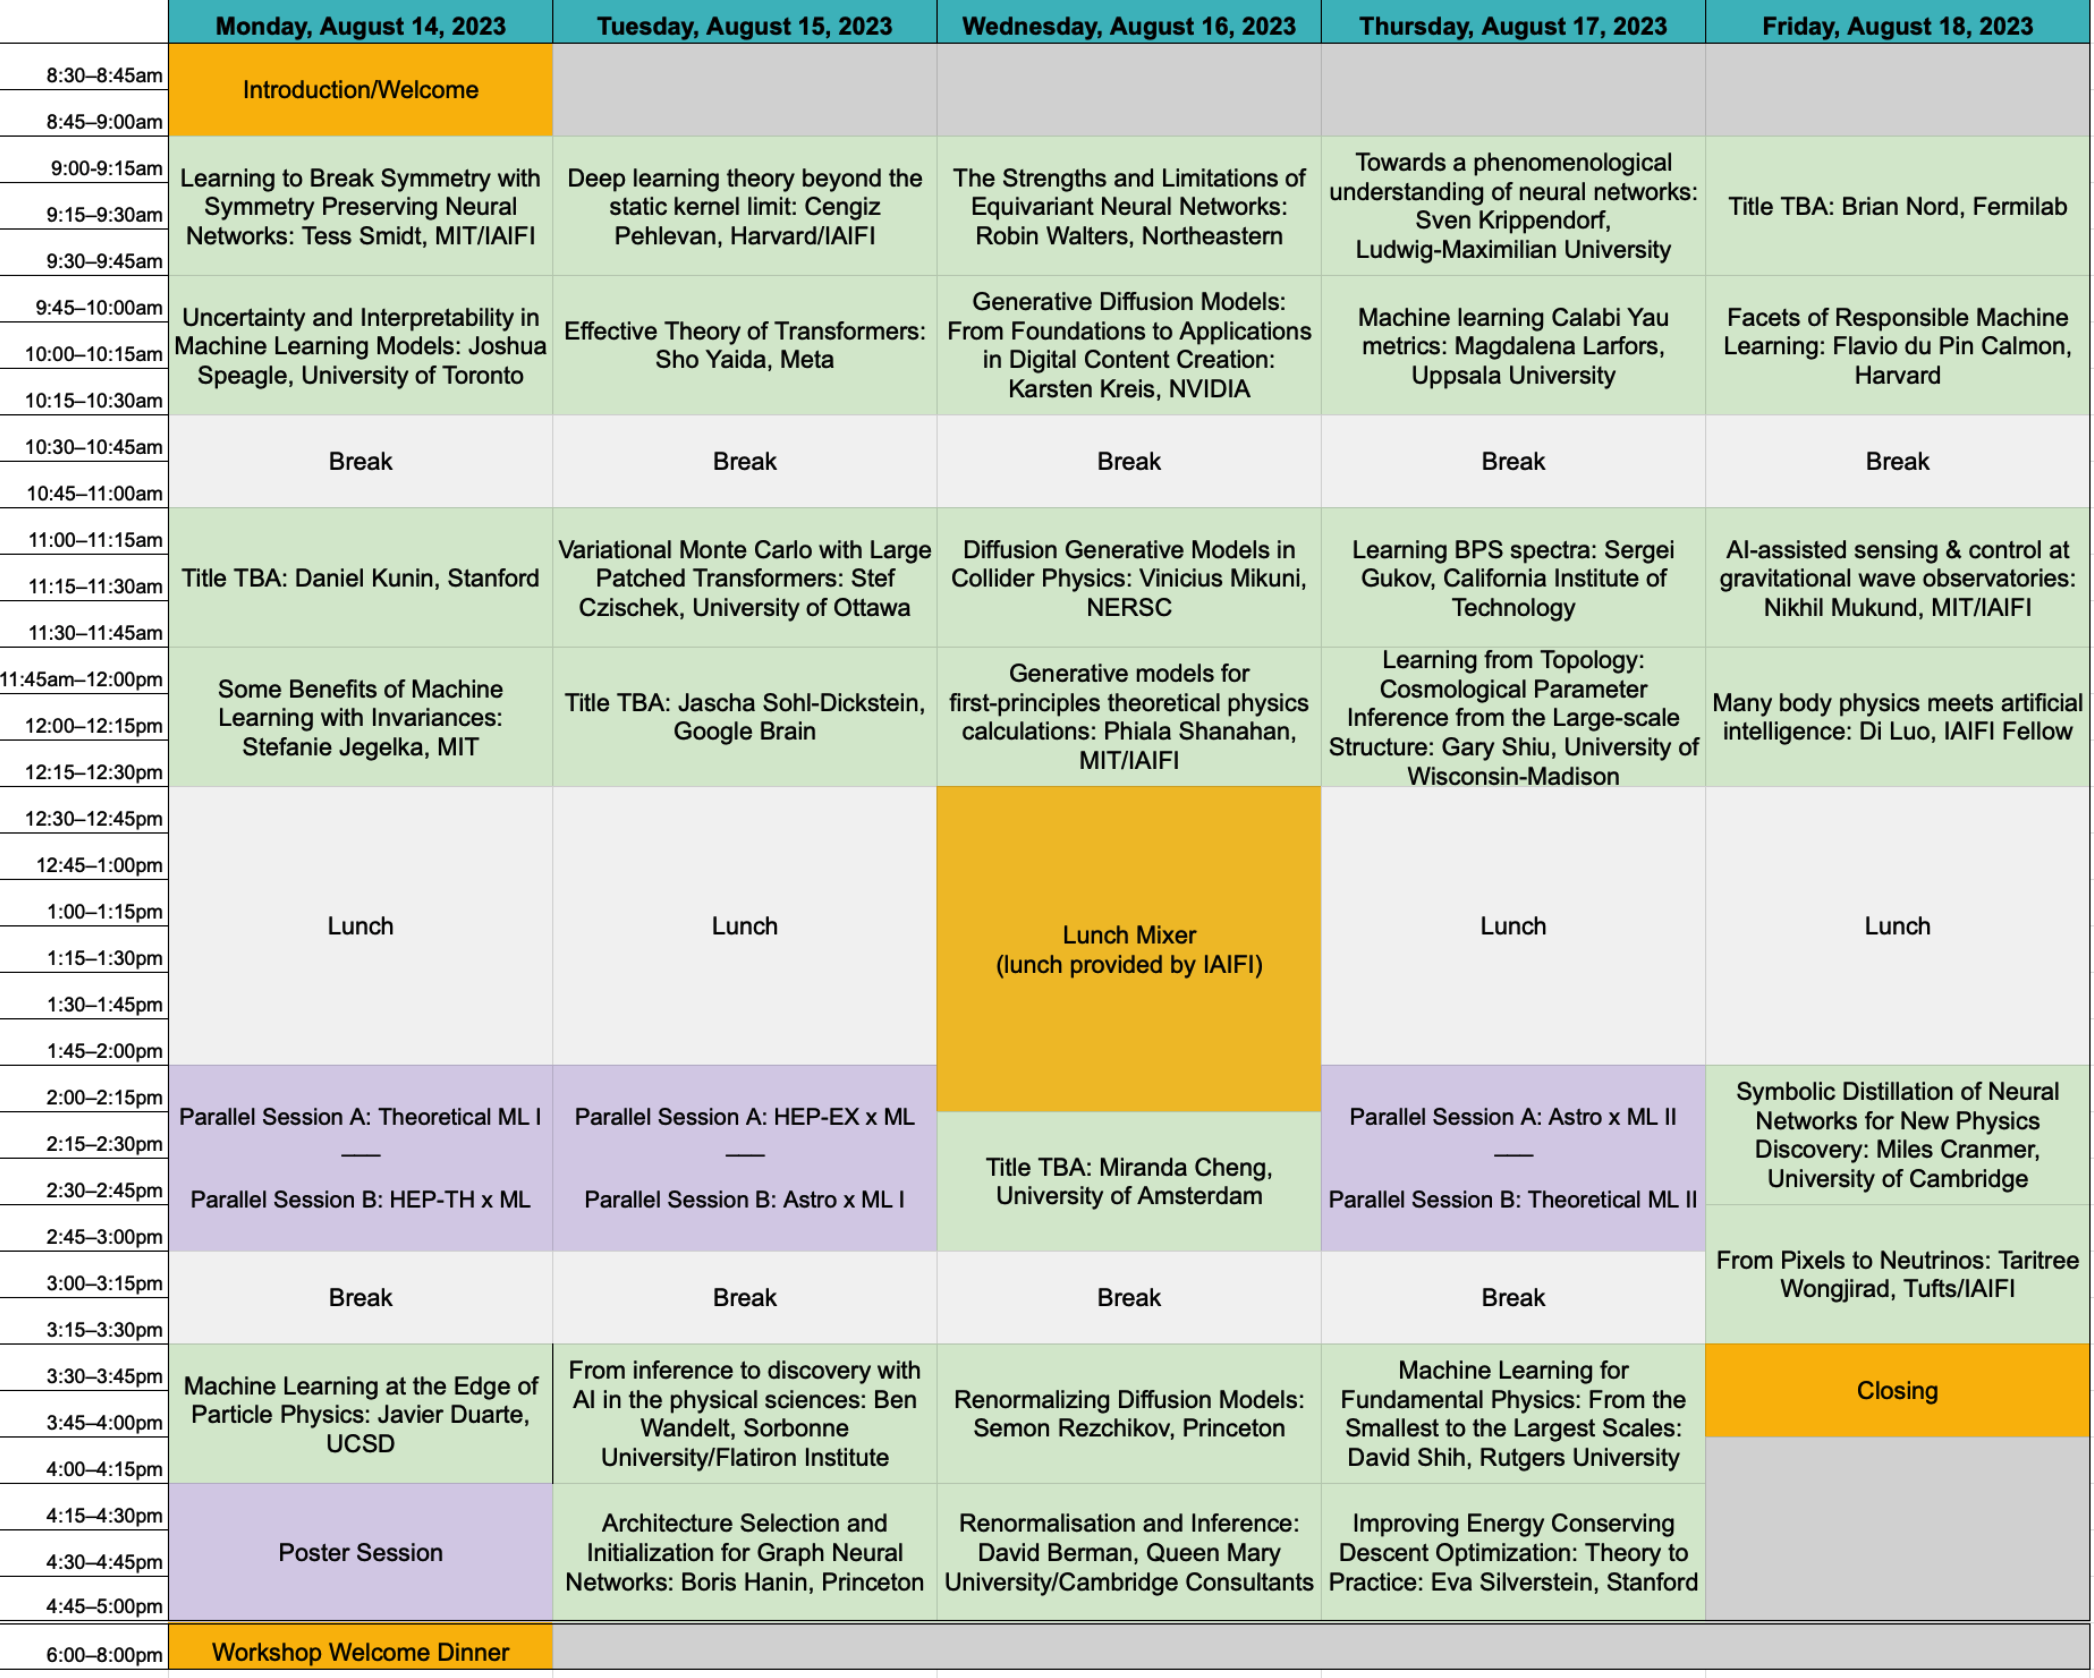
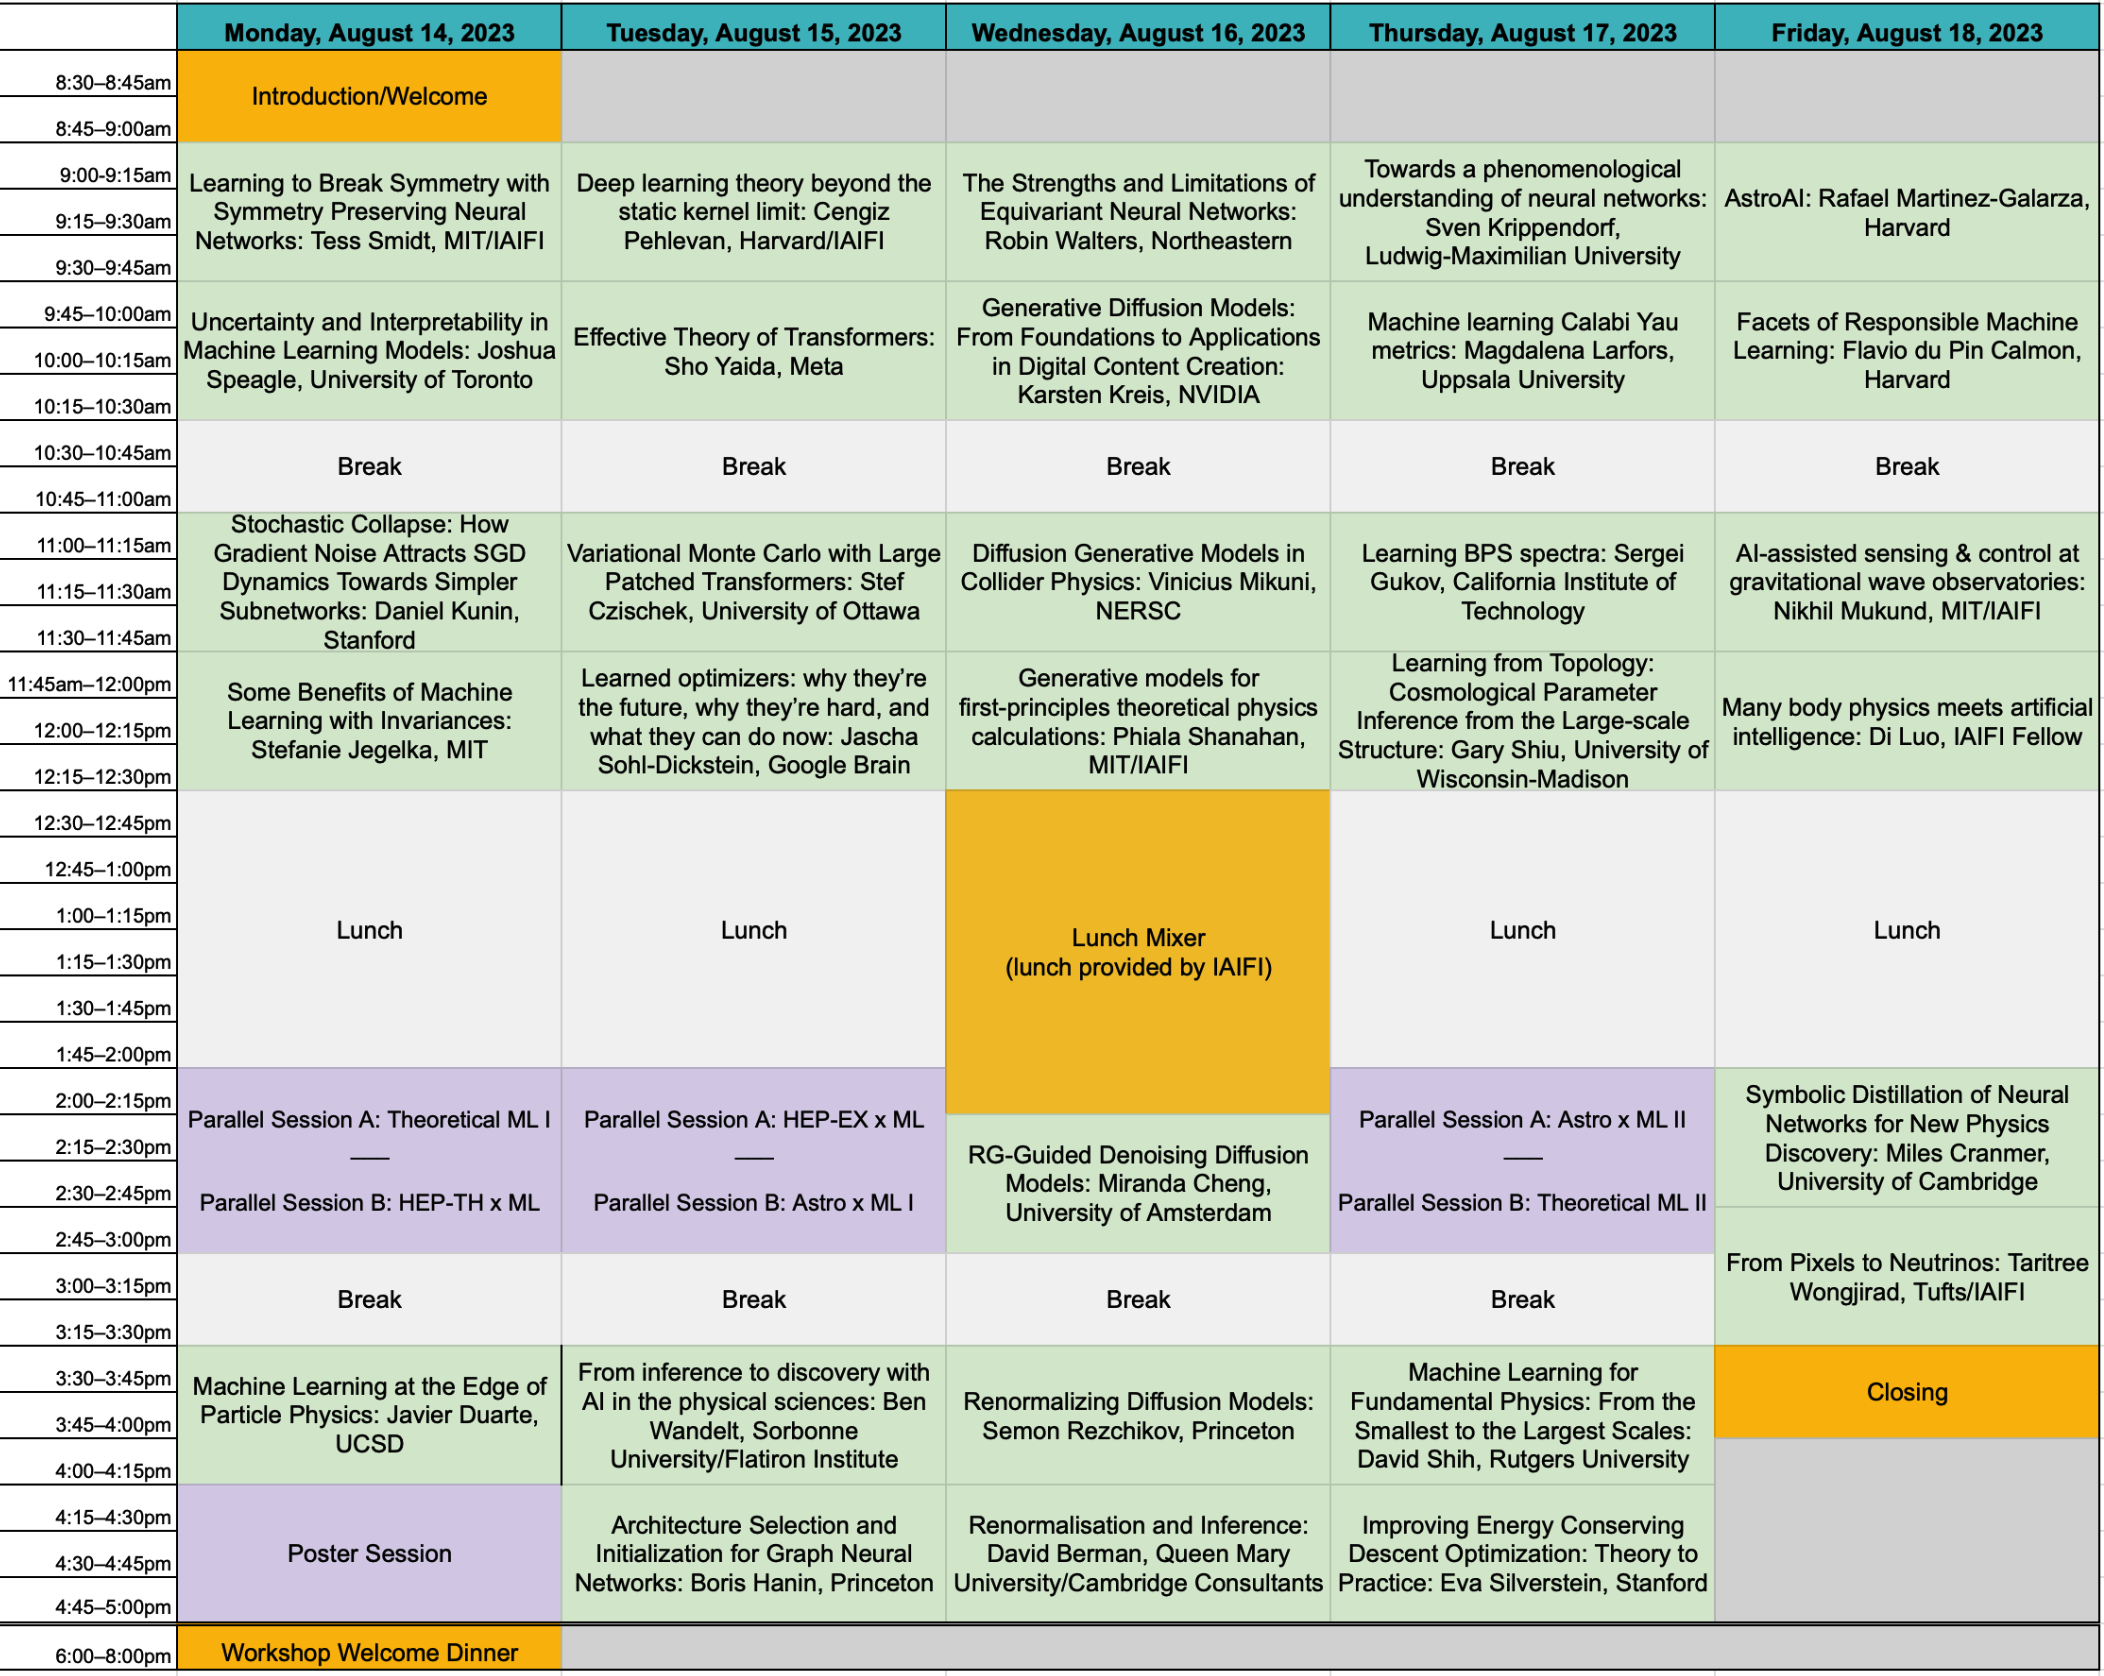
Final schedule edits for workshop

diff --git a/summer-workshop.md b/summer-workshop.md
@@ -488,7 +488,7 @@ Improving Energy Conserving Descent Optimization: Theory to Practice, Eva Silver
 
 **9:00 am–9:45 am ET**
 
-Title TBA, Brian Nord (Fermilab)
+AstroAI, Rafael Martinez-Galarza (Harvard & Smithsonian Center for Astrophysics)
 
 <details>
 <summary>Abstract</summary>
@@ -694,7 +694,7 @@ The following speakers have accepted invitations to give plenary talks at this y
        </div>
 
      <div class="card" style="width: 17rem; height: 20rem; justify-content: center;">
-         <img class="my-card-img-top" src="images/Daniel-kunin.png" alt="Daniel Kunin" height="210rem" style="object-fit: cover;">
+         <img class="my-card-img-top" src="images/photo-daniel-kunin.png" alt="Daniel Kunin" height="210rem" style="object-fit: cover;">
          <div class="card-body d-flex flex-column">
          <div class="card-text" style="text-align: center; min-height: 2rem;">
          <a href="https://daniel-kunin.com">Daniel Kunin</a>
@@ -730,6 +730,18 @@ The following speakers have accepted invitations to give plenary talks at this y
        </div>
 
      <div class="card" style="width: 17rem; height: 20rem; justify-content: center;">
+         <img class="my-card-img-top" src="images/photo-rafael-martinez.jpg" alt="Rafael Martinez-Galarza" height="210rem" style="object-fit: cover;">
+         <div class="card-body d-flex flex-column">
+         <div class="card-text" style="text-align: center; min-height: 2rem;">
+         <a href="https://lweb.cfa.harvard.edu/~jmartine/Welcome.html">Rafael Martinez-Galarza</a>
+         </div>
+         <div class="card-text" style="text-align: center; min-height: 4rem; line-height: 140%">
+         <em> Astrophysicist, Harvard & Smithsonian Center for Astrophysics </em> <br>
+         </div>
+         </div>
+       </div>
+
+     <div class="card" style="width: 17rem; height: 20rem; justify-content: center;">
          <img class="my-card-img-top" src="images/small-photo-vinicius-mikuni.jpg" alt="Vinicius Mikuni" height="210rem" style="object-fit: cover;">
          <div class="card-body d-flex flex-column">
          <div class="card-text" style="text-align: center; min-height: 2rem;">
@@ -749,18 +761,6 @@ The following speakers have accepted invitations to give plenary talks at this y
          </div>
          <div class="card-text" style="text-align: center; min-height: 4rem; line-height: 140%">
          <em> Postdoctoral Scholar, MIT Kavli Institute </em> <br>
-         </div>
-         </div>
-       </div>
-
-     <div class="card" style="width: 17rem; height: 20rem; justify-content: center;">
-         <img class="my-card-img-top" src="images/small-photo-brian-nord.jpg" alt="Brian Nord" height="210rem" style="object-fit: cover;">
-         <div class="card-body d-flex flex-column">
-         <div class="card-text" style="text-align: center; min-height: 2rem;">
-         <a href="https://briandnord.com/">Brian Nord</a>
-         </div>
-         <div class="card-text" style="text-align: center; min-height: 4rem; line-height: 140%">
-         <em> Research Scientist, Fermilab </em> <br>
          </div>
          </div>
        </div>
